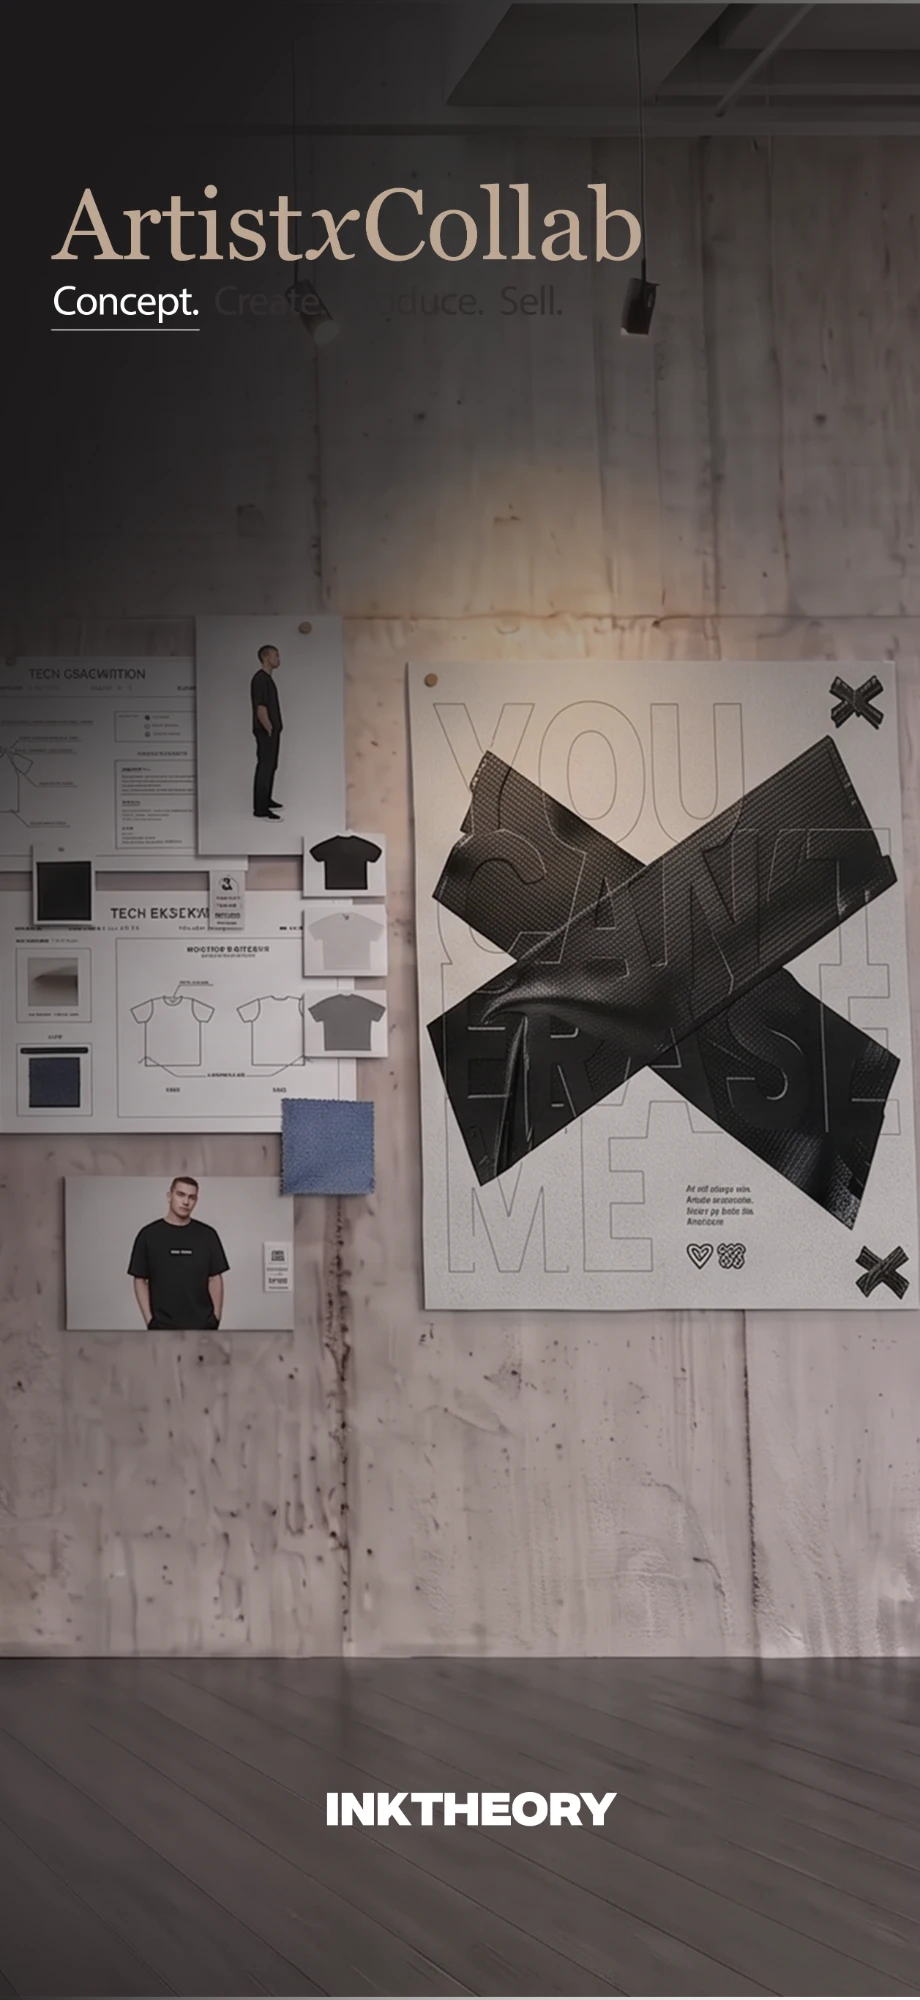
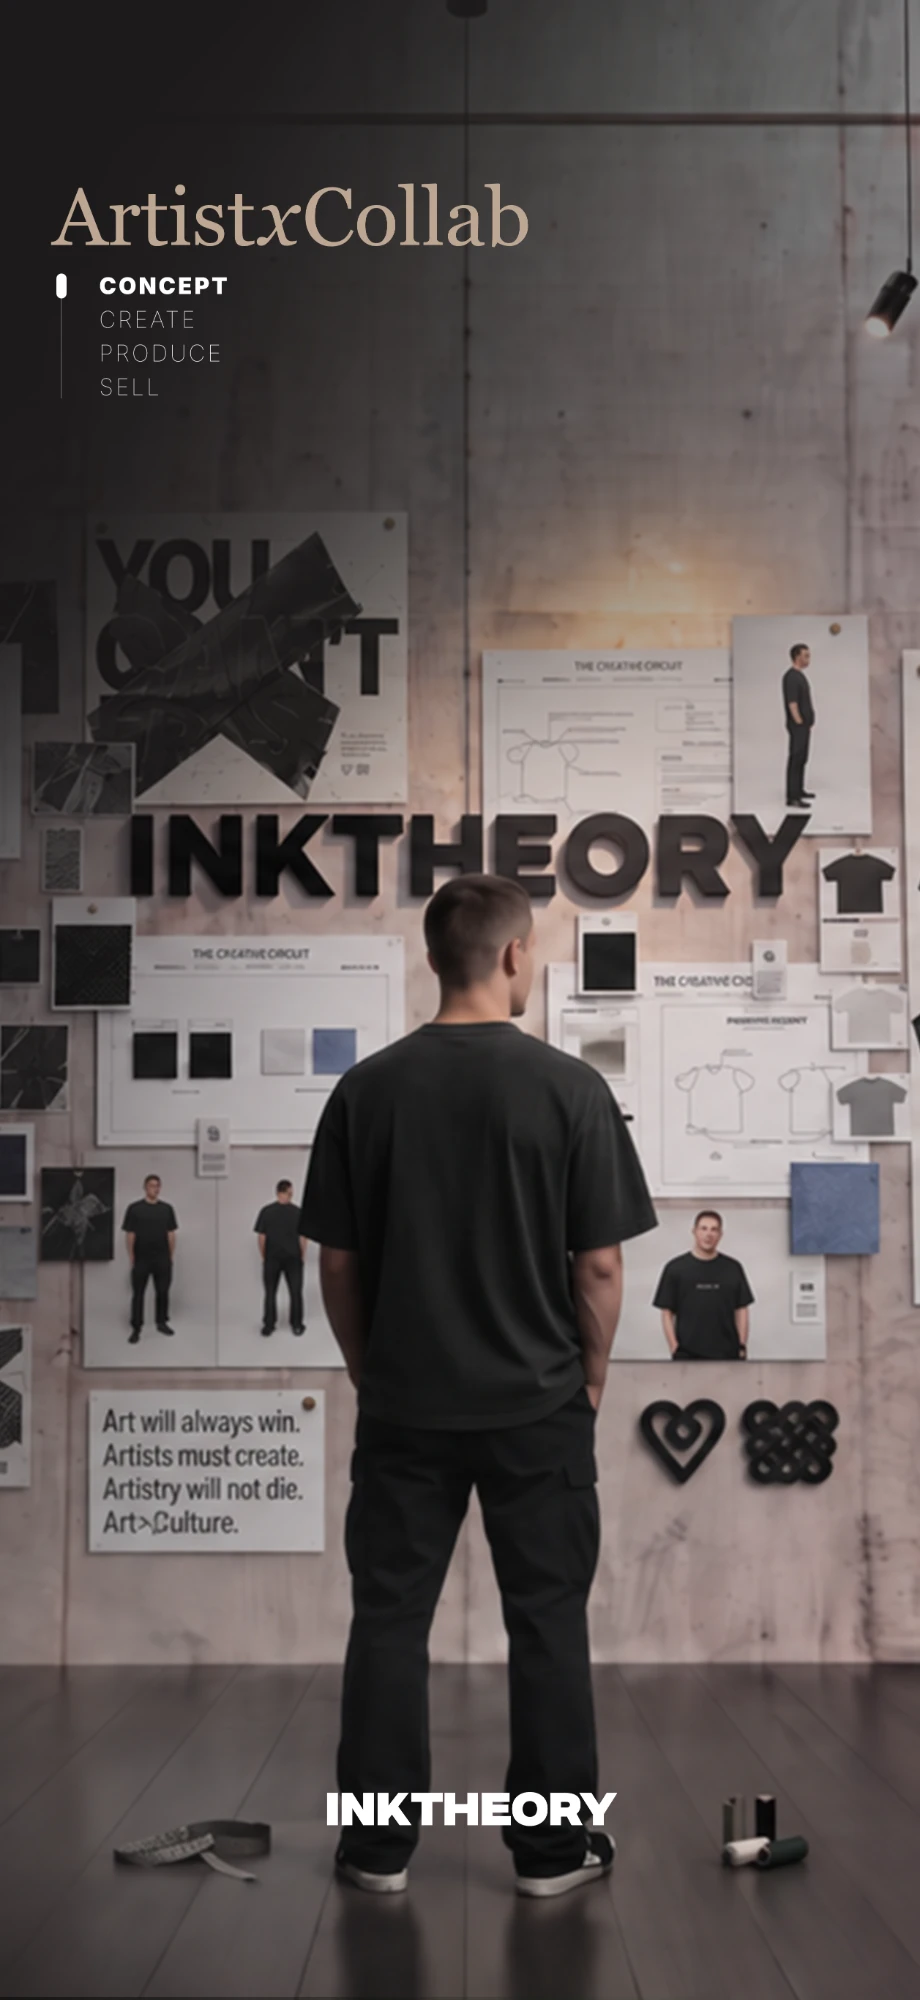
Use the new Concept export as-is on Artist×Collab
Slides exported with the header baked in (class "baked") drop the top
mask and hide the HTML header on mobile while they are in front.

diff --git a/public/artistxcollab/index.html b/public/artistxcollab/index.html
@@ -86,7 +86,12 @@
   @keyframes pulseLine{0%,100%{transform:scaleY(.4);opacity:.4;}50%{transform:scaleY(1);opacity:1;}}
 
   /* ---------- fixed HUD: wordmark + step line, never moves ---------- */
-  .hud{position:absolute;z-index:50;left:5.6vw;top:calc(14vw + env(safe-area-inset-top,0px));}
+  .hud{position:absolute;z-index:50;left:5.6vw;top:calc(14vw + env(safe-area-inset-top,0px));
+    transition:opacity .6s ease, transform .6s ease;}
+  /* slides exported with the header already in the photo: photo shows as-is, HTML header steps aside */
+  @media (max-width:899px){
+    .hud[data-baked="1"]{opacity:0;transform:translateY(-6px);pointer-events:none;}
+  }
   .wordmark{position:relative;height:1.1em;font-family:var(--serif);font-weight:400;font-size:9.6vw;line-height:1;letter-spacing:-.01em;
     white-space:nowrap;text-shadow:0 2px 24px rgba(0,0,0,.5);}
   .wm{position:absolute;left:0;bottom:0;transition:opacity .6s ease, transform .6s ease;}
@@ -259,13 +264,12 @@
       </div>
     </section>
 
-    <section class="slide" id="concept" style="z-index:2">
+    <section class="slide baked" id="concept" style="z-index:2">
       <div class="slide-inner">
         <img class="backdrop" src="/artistxcollab/img/3.webp" alt="" aria-hidden="true">
         <div class="frame"><div class="card">
-          <img class="back" src="/artistxcollab/img/3.webp" alt="Concept — a studio mood board with tech packs, swatches and the taped poster">
+          <img class="back" src="/artistxcollab/img/3.webp" alt="Concept — a designer facing the Ink Theory mood board of tech packs, swatches and posters">
           <img class="front" src="/artistxcollab/img/3.webp" alt="" aria-hidden="true">
-          <div class="mask"></div>
         </div></div>
         <div class="wash"></div><div class="wash-grain"></div>
         <div class="copy">
@@ -410,7 +414,7 @@
   function apply(scroll){
     var vh = viewport.offsetHeight || window.innerHeight;
     var u0 = scroll / vh;
-    var current = 'hero';
+    var current = 'hero', currentEl = slides[0];
     slides.forEach(function(s, i){
       var u = u0 - i * L;
       var n = i === 0 ? 1 : clamp01(u + 1);
@@ -420,8 +424,9 @@
       s.style.setProperty('--n', smoothstep(n).toFixed(4));
       s.style.setProperty('--e', smoothstep(e).toFixed(4));
       s.classList.toggle('live', n > 0 && e < 1);
-      if(n >= 0.5) current = s.id;
+      if(n >= 0.5){ current = s.id; currentEl = s; }
     });
+    hud.dataset.baked = currentEl.classList.contains('baked') ? '1' : '0';
     setActive(current);
   }
 
